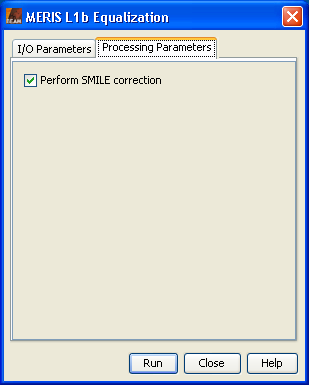
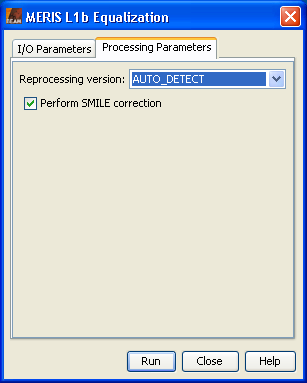
Equalization: user can specify processing version, because there are so many different processing versions in the wild

diff --git a/beam-meris-equalization/src/main/resources/doc/help/equalization/MerisEqualizationProcessorDescription.html b/beam-meris-equalization/src/main/resources/doc/help/equalization/MerisEqualizationProcessorDescription.html
@@ -91,6 +91,20 @@
 <h5>Parameter Panel</h5>
 
 <p class="i1">
+    <b>Reprocessing version:</b>
+    Specifies the version of the reprocessing the product comes from. Depending on version different LUTs are used.
+    If set to AUTO_DETECT the processor tries to detect the reprocessing version. This is the default value.
+</p>
+
+<p> The equalization algorithm supports data from the 2nd or 3rd reprocessing.
+    The only difference lies in the LUTs used. Depending on the value of the field <i>software_ver</i> in
+    the MPH of the MERIS product the appropriate LUT is chosen to retrieve the coefficients (if AUTO_DETECT is selected).<br>
+    If the <i>software_ver</i> is between <b>MERIS/4.1</b> and <b>MERIS/5.06</b> or between
+    <b>MEGS-PC/7.4</b> and <b>MEGS-PC/7.5</b> the product is considered to be from the 2nd reprocessing. <br>
+    If the software_ver is above <b>MEGS-PC/8.0</b> the product is considered to be from the 3nd reprocessing.
+</p>
+
+<p class="i1">
     <b>Perform SMILE correction:</b>
     Specifies if the SMILE correction shall be performed or not. If the selected source product is already SMILE
     corrected this option should be disabled.

diff --git a/beam-meris-equalization/src/main/resources/doc/help/equalization/MerisEqualizationAlgorithmSpecification.html b/beam-meris-equalization/src/main/resources/doc/help/equalization/MerisEqualizationAlgorithmSpecification.html
@@ -45,15 +45,6 @@
     retrieved via a methodology described in <a href="#R-1">[R-1]</a> based on observations of the Antarctica plateau
     spread out throughout the MERIS mission lifetime.</p>
 
-<p>
-    The equalization algorithm supports data from the 2nd or 3rd reprocessing.
-    The only difference lies in the LUTs used. Depending on the value of the field <i>software_ver</i> in
-    the MPH of the MERIS product the appropriate LUT is chosen to retrieve the coefficients.<br>
-    If the <i>software_ver</i> is between <b>MERIS/4.1</b> and <b>MERIS/5.06</b> or between
-    <b>MEGS-PC/7.4</b> and <b>MEGS-PC/7.5</b> the product is considered to be from the 2nd reprocessing. <br>
-    If the software_ver is above <b>MEGS-PC/8.0</b> the product is considered to be from the 3nd reprocessing.
-</p>
-
 <p>The equalization proceeds in the following way:</p>
 
 <h4>1) Smile correction:</h4>

diff --git a/beam-meris-equalization/src/main/java/org/esa/beam/EqualizationOp.java b/beam-meris-equalization/src/main/java/org/esa/beam/EqualizationOp.java
@@ -55,6 +55,10 @@ import static org.esa.beam.dataio.envisat.EnvisatConstants.*;
                   version = "1.0")
 public class EqualizationOp extends Operator {
 
+    @Parameter(label = "Reprocessing version", valueSet = {"AUTO_DETECT","REPROCESSING_2","REPROCESSING_3"}, defaultValue = "AUTO_DETECT",
+               description = "The version of the reprocessing the product comes from.")
+    private REPROCESSING_VERSION reproVersion;
+
     @Parameter(defaultValue = "true",
                label = "Perform SMILE correction",
                description = "Whether to perform SMILE correction or not.")
@@ -114,7 +118,13 @@ public class EqualizationOp extends Operator {
 
         try {
             final boolean isFullResolution = sourceProduct.getProductType().startsWith("MER_F");
-            equalizationLUT = new EqualizationLUT(getReprocessingVersion(), isFullResolution);
+            int reprocessingVersion;
+            if(REPROCESSING_VERSION.AUTO_DETECT.equals(reproVersion)) {
+                reprocessingVersion = autoDetectReprocessingVersion();
+            }else {
+                reprocessingVersion = reproVersion.getVersion();
+            }
+            equalizationLUT = new EqualizationLUT(reprocessingVersion, isFullResolution);
         } catch (IOException e) {
             throw new OperatorException("Not able to create LUT.", e);
         }
@@ -235,25 +245,6 @@ public class EqualizationOp extends Operator {
         return reflectanceValue / cEq;
     }
 
-    static int parseReprocessingVersion(String processorName, float processorVersion) {
-        if ("MERIS".equalsIgnoreCase(processorName)) {
-            if (processorVersion >= 4.1f && processorVersion <= 5.06f) {
-                return 2;
-            }
-        }
-        if ("MEGS-PC".equalsIgnoreCase(processorName)) {
-            if (processorVersion >= 7.4f && processorVersion <= 7.5f) {
-                return 2;
-            } else if (processorVersion >= 8.0f) {
-                return 3;
-            }
-        }
-
-        throw new OperatorException(
-                String.format("Unknown reprocessing version %s/%s.\nProduct must be of reprocessing 2 or 3.",
-                              processorName, processorVersion));
-    }
-
     static long toJulianDay(int year, int month, int dayOfMonth) {
         final double millisPerDay = 86400000.0;
 
@@ -268,28 +259,65 @@ public class EqualizationOp extends Operator {
         return (long) (utc.getTimeInMillis() / millisPerDay - epochJulianDate);
     }
 
-    private int getReprocessingVersion() {
+    private int autoDetectReprocessingVersion() {
         final MetadataElement mphElement = sourceProduct.getMetadataRoot().getElement(ELEM_NAME_MPH);
         if (mphElement != null) {
             final String softwareVer = mphElement.getAttributeString(ATTRIB_SOFTWARE_VER);
             if (softwareVer != null) {
                 final String[] strings = softwareVer.split("/");
                 final String processorName = strings[0];
-                final String processorVersion = strings[1];
+                final int maxLength = Math.min(strings[1].length(), 5); // first 5 characters
+                final String processorVersion = strings[1].substring(0, maxLength).trim();
                 final float version;
                 try {
-                    version = Float.parseFloat(processorVersion);
+                    version = versionToFloat(processorVersion);
                 } catch (NumberFormatException e) {
                     final String msgPattern = "Not able to detect reprocessing version. Metadata attribute 'MPH/SOFTWARE_VER' [%s] is invalid.";
                     throw new OperatorException(String.format(msgPattern, softwareVer), e);
                 }
-                return parseReprocessingVersion(processorName, version);
+                return detectReprocessingVersion(processorName, version);
             } else {
                 throw new OperatorException(
                         "Not able to detect reprocessing version.\nMetadata attribute 'MPH/SOFTWARE_VER' not found.");
             }
         }
         throw new OperatorException("Not able to detect reprocessing version.\nMetadata element 'MPH' not found.");
+    }
+
+    static int detectReprocessingVersion(String processorName, float processorVersion) {
+        if ("MERIS".equalsIgnoreCase(processorName)) {
+            if (processorVersion >= 4.1f && processorVersion <= 5.06f) {
+                return 2;
+            }
+        }
+        if ("MEGS-PC".equalsIgnoreCase(processorName)) {
+            if (processorVersion >= 7.4f && processorVersion <= 7.5f) {
+                return 2;
+            } else if (processorVersion >= 8.0f) {
+                return 3;
+            }
+        }
+
+        throw new OperatorException(
+                String.format("Unknown reprocessing version (%s/%s).\nProduct must be of reprocessing 2 or 3.",
+                              processorName, processorVersion));
+    }
+
+    static float versionToFloat(String processorVersion) {
+        final String[] values = processorVersion.split("\\.");
+        float version = 0.0f;
+        for (int i = 0; i < values.length; i++) {
+            String value = values[i];
+            final int integer = Integer.parseInt(value);
+            int leadingZeros = 0;
+            for (int j = 0; j < value.length(); j++) {
+                if(value.charAt(j) == '0') {
+                    leadingZeros++;
+                }
+            }
+            version += integer / Math.pow(10, i+leadingZeros);
+        }
+        return version;
     }
 
     private Tile[] loadRequiredRadianceTiles(int spectralBandIndex, Rectangle targetRectangle, ProgressMonitor pm) {

diff --git a/beam-meris-equalization/src/test/java/org/esa/beam/EqualizationOpTest.java b/beam-meris-equalization/src/test/java/org/esa/beam/EqualizationOpTest.java
@@ -190,20 +190,20 @@ public class EqualizationOpTest {
     @Test()
     public void testParseReproVersion_Fails() {
         try {
-            EqualizationOp.parseReprocessingVersion("MERIS", 3.67f);
+            EqualizationOp.detectReprocessingVersion("MERIS", 3.67f);
             fail("Version is not of reprocessing 2 or 3");
         } catch (OperatorException ignored) {
             // expected
         }
         try {
-            EqualizationOp.parseReprocessingVersion("MERIS", 5.1f);
+            EqualizationOp.detectReprocessingVersion("MERIS", 5.1f);
             fail("Version is not of reprocessing 2 or 3");
         } catch (OperatorException ignored) {
             // expected
         }
 
         try {
-            EqualizationOp.parseReprocessingVersion("MEGS-PC", 7.2f);
+            EqualizationOp.detectReprocessingVersion("MEGS-PC", 7.2f);
             fail("Version is not of reprocessing 2 or 3");
         } catch (OperatorException ignored) {
             // expected
@@ -212,20 +212,28 @@ public class EqualizationOpTest {
 
     @Test
     public void testParseReprocessingVersion() {
-        assertEquals(2, EqualizationOp.parseReprocessingVersion("MERIS", 4.1f));
-        assertEquals(2, EqualizationOp.parseReprocessingVersion("MERIS", 5.02f));
-        assertEquals(2, EqualizationOp.parseReprocessingVersion("MERIS", 5.03f));
-        assertEquals(2, EqualizationOp.parseReprocessingVersion("MERIS", 5.04f));
-        assertEquals(2, EqualizationOp.parseReprocessingVersion("MERIS", 5.05f));
-        assertEquals(2, EqualizationOp.parseReprocessingVersion("MERIS", 5.06f));
+        assertEquals(2, EqualizationOp.detectReprocessingVersion("MERIS", 4.1f));
+        assertEquals(2, EqualizationOp.detectReprocessingVersion("MERIS", 5.02f));
+        assertEquals(2, EqualizationOp.detectReprocessingVersion("MERIS", 5.03f));
+        assertEquals(2, EqualizationOp.detectReprocessingVersion("MERIS", 5.04f));
+        assertEquals(2, EqualizationOp.detectReprocessingVersion("MERIS", 5.05f));
+        assertEquals(2, EqualizationOp.detectReprocessingVersion("MERIS", 5.06f));
         
-        assertEquals(2, EqualizationOp.parseReprocessingVersion("MEGS-PC", 7.4f));
-        assertEquals(2, EqualizationOp.parseReprocessingVersion("MEGS-PC", 7.41f));
-        assertEquals(2, EqualizationOp.parseReprocessingVersion("MEGS-PC", 7.5f));
+        assertEquals(2, EqualizationOp.detectReprocessingVersion("MEGS-PC", 7.4f));
+        assertEquals(2, EqualizationOp.detectReprocessingVersion("MEGS-PC", 7.41f));
+        assertEquals(2, EqualizationOp.detectReprocessingVersion("MEGS-PC", 7.5f));
 
-        assertEquals(3, EqualizationOp.parseReprocessingVersion("MEGS-PC", 8.0f));
-        assertEquals(3, EqualizationOp.parseReprocessingVersion("MEGS-PC", 8.1f));
-        assertEquals(3, EqualizationOp.parseReprocessingVersion("MEGS-PC", 8.9f));
+        assertEquals(3, EqualizationOp.detectReprocessingVersion("MEGS-PC", 8.0f));
+        assertEquals(3, EqualizationOp.detectReprocessingVersion("MEGS-PC", 8.1f));
+        assertEquals(3, EqualizationOp.detectReprocessingVersion("MEGS-PC", 8.9f));
+    }
+
+    @Test
+    public void testVersionToFloat() {
+        assertEquals(4.1f, EqualizationOp.versionToFloat("4.1"), 0.0f);
+        assertEquals(4.12f, EqualizationOp.versionToFloat("4.1.2"), 0.0f);
+        assertEquals(41.6f, EqualizationOp.versionToFloat("41.6"), 0.0f);
+        assertEquals(1234.0f, EqualizationOp.versionToFloat("1234"), 0.0f);
     }
 
     @Test

diff --git a/beam-meris-equalization/src/main/java/org/esa/beam/REPROCESSING_VERSION.java b/beam-meris-equalization/src/main/java/org/esa/beam/REPROCESSING_VERSION.java
@@ -1,0 +1,33 @@
+/*
+ * Copyright (C) 2010 Brockmann Consult GmbH (info@brockmann-consult.de)
+ *
+ * This program is free software; you can redistribute it and/or modify it
+ * under the terms of the GNU General Public License as published by the Free
+ * Software Foundation; either version 3 of the License, or (at your option)
+ * any later version.
+ * This program is distributed in the hope that it will be useful, but WITHOUT
+ * ANY WARRANTY; without even the implied warranty of MERCHANTABILITY or
+ * FITNESS FOR A PARTICULAR PURPOSE. See the GNU General Public License for
+ * more details.
+ *
+ * You should have received a copy of the GNU General Public License along
+ * with this program; if not, see http://www.gnu.org/licenses/
+ */
+
+package org.esa.beam;
+
+enum REPROCESSING_VERSION {
+    AUTO_DETECT(-1),
+    REPROCESSING_2(2),
+    REPROCESSING_3(3);
+
+    private int version;
+
+    REPROCESSING_VERSION(int version) {
+        this.version = version;
+    }
+
+    public int getVersion() {
+        return version;
+    }
+}
